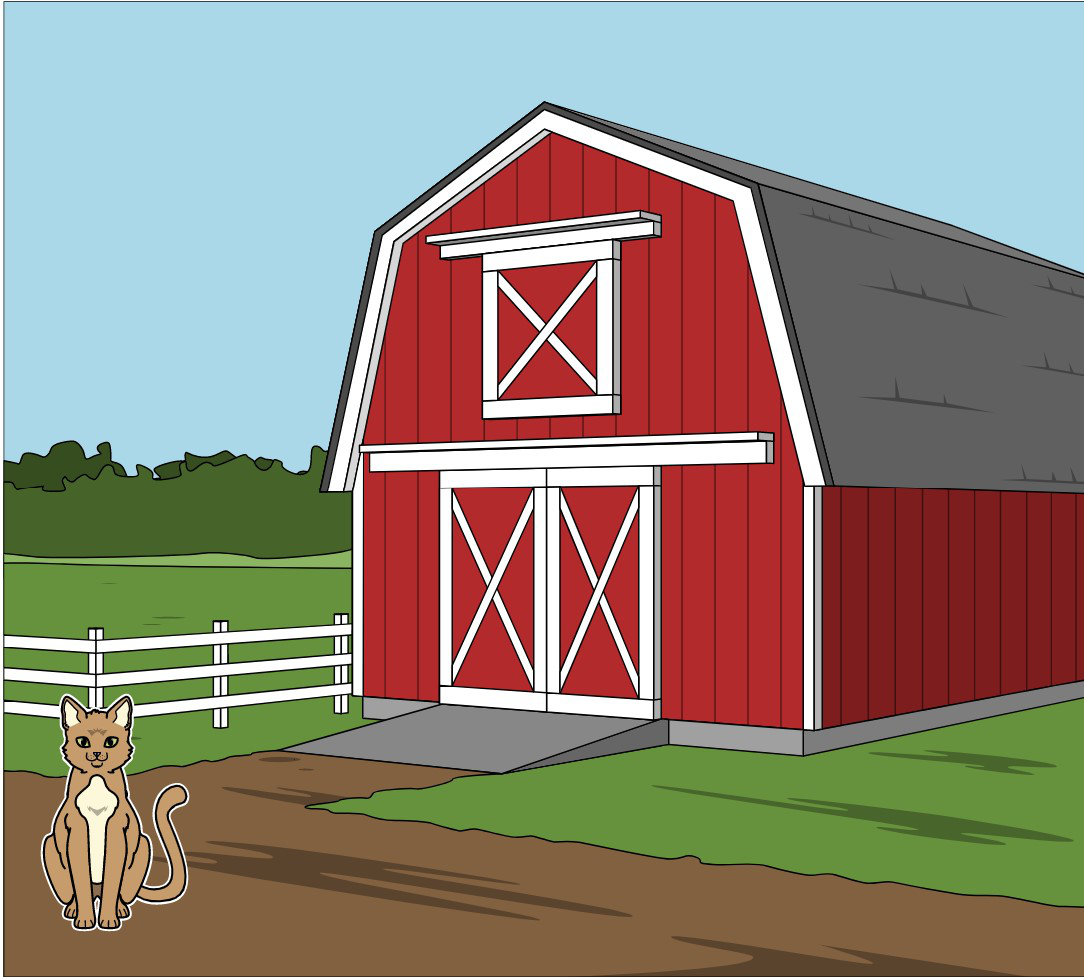
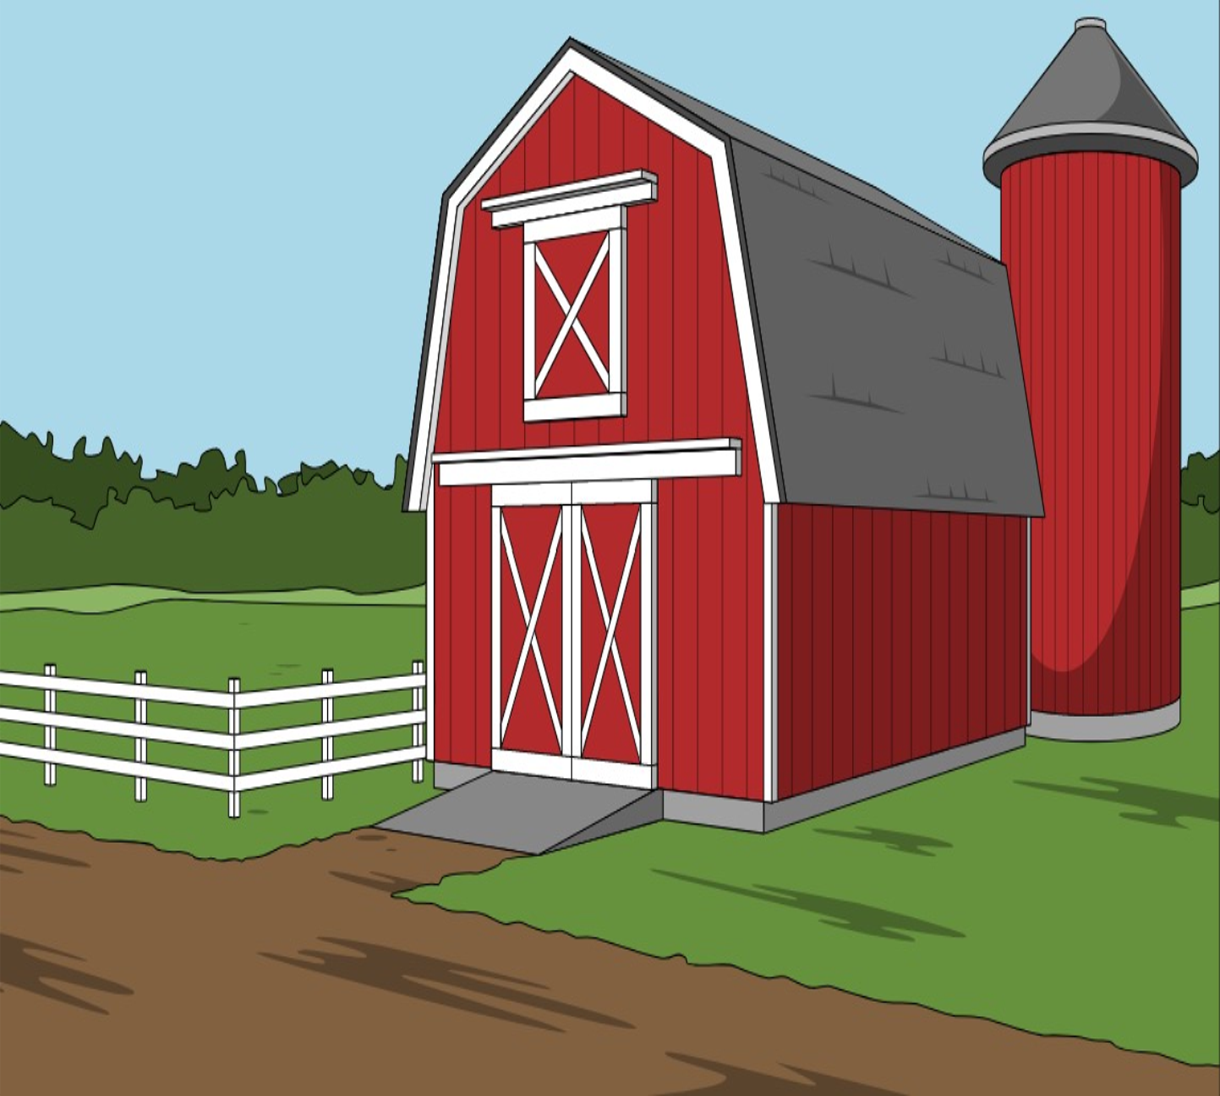
Fixed setScene3 images

diff --git a/src/main/java/edu/pacific/comp55/starter/SetScene3.java b/src/main/java/edu/pacific/comp55/starter/SetScene3.java
@@ -44,28 +44,28 @@ public class SetScene3 extends GraphicsPane implements ActionListener {
 	public SetScene3(MainApplication app) {
 		super();
 		program = app;
-
-
+		
 		// For scene 3
-		scene3 = new GImage("scene3bgimage.png", 0, 0);
-		dog2 = new GImage("dog2.png", 800, 650);
-		dog2.scale(0.5);
-
-		
-		
-		dog2text = new GImage("dog2text.png", 200, 100);
-		barn = new GImage("barn.png", 100, 100);
-		barntext = new GImage("barntext.png", 100, 100);
+		saaya = new GImage("cat.png", 100, 750);
+		scene3 = new GImage("scene3.png", 0, 0);
+		dog2 = new GImage("dog2.png", 700, 750);
+		barn = new GImage("barn.png", 67, 18);
+		tree = new GImage("tree.png", 10, 400);
 		mapGif = new GImage("journey2.gif", 0, 0);
 		mapSound = AudioPlayer.getInstance();
 
-		// cat
-		saaya = new GImage("cat.png", 600, 650);
-
 		// buttons
-		cont = new GButton("Continue", 655, 500, 100, 100);
+		saaya.scale(2);
+		scene3.scale(1.1);
+		dog2.scale(0.4);
+		saaya.scale(0.7);
+		tree.scale(0.4);
+		barn.scale(1.1);
+		
+		//buttons 
+		cont = new GButton("Continue", 655, 550, 100, 100);
 		cont.setFillColor(Color.GREEN);
-		exit = new GButton("Exit", 455, 500, 100, 100);
+		exit = new GButton("Exit", 455, 550, 100, 100);
 		exit.setFillColor(Color.RED);
 	}
 
@@ -91,9 +91,10 @@ public class SetScene3 extends GraphicsPane implements ActionListener {
 		gifTimer.start();
 		mapSound.playSound(MUSIC_FOLDER, SOUND_FILE);
 		program.add(scene3);
+		program.add(barn);
 		program.add(dog2);
 		program.add(saaya);
-		program.add(barn);
+		program.add(tree);
 		program.add(mapGif);
 	}
 
@@ -102,21 +103,31 @@ public class SetScene3 extends GraphicsPane implements ActionListener {
 	public void mousePressed(MouseEvent e) {
 		GObject obj = program.getElementAt(e.getX(), e.getY());
 
-		if (obj == dog2) {
-			treescreen = new GImage("sunscreen.png", 350, 200);
+		if (obj == dog2 && !treetimerstart) {
+			dog2text = new GImage("dog2text.png", 350, 550);
+			dog2text.scale(0.5);
+			program.add(dog2text);
+			dog2timer.start();
+		}
+		
+		if (obj == barn && !treetimerstart) {
+			barntext = new GImage("barntext.png", 200, 200);
+			barntext.scale(0.5);
+			program.add(barntext);
+			barntimer.start();
+		}
+		
+		if (obj == tree) {
+			treescreen = new GImage("treescreen.png", 350, 200);
 			treescreen.scale(0.5);
 			program.add(treescreen);
-			dog2timer.start();
-
+			treetimer.start();
+			treetimerstart = true;
 		}
-
+		
 		if (obj == cont) {
 			removebuttons();
 			program.switchToTTT();
-		}
-
-		if (obj == exit) {
-			program.switchToMenu();
 		}
 
 	}
@@ -138,7 +149,26 @@ public class SetScene3 extends GraphicsPane implements ActionListener {
 		}
 
 		if (source == dog2timer) {
-			dog2timer.stop();
+			dialogueCountdown++;
+			if (dialogueCountdown > 100) {
+				program.remove(dog2text);
+				dialogueCountdown = 0;
+				dog2timer.stop();
+			}
+		}
+		
+		if (source == barntimer) {
+			dialogueCountdown++;
+			if (dialogueCountdown > 100) {
+				program.remove(barntext);
+				dialogueCountdown = 0;
+				barntimer.stop();
+			}
+		}
+		
+		if (source == treetimer) {
+			dialogueCountdown++;
+			treetimer.stop();
 			program.add(cont);
 			program.add(exit);
 		}
